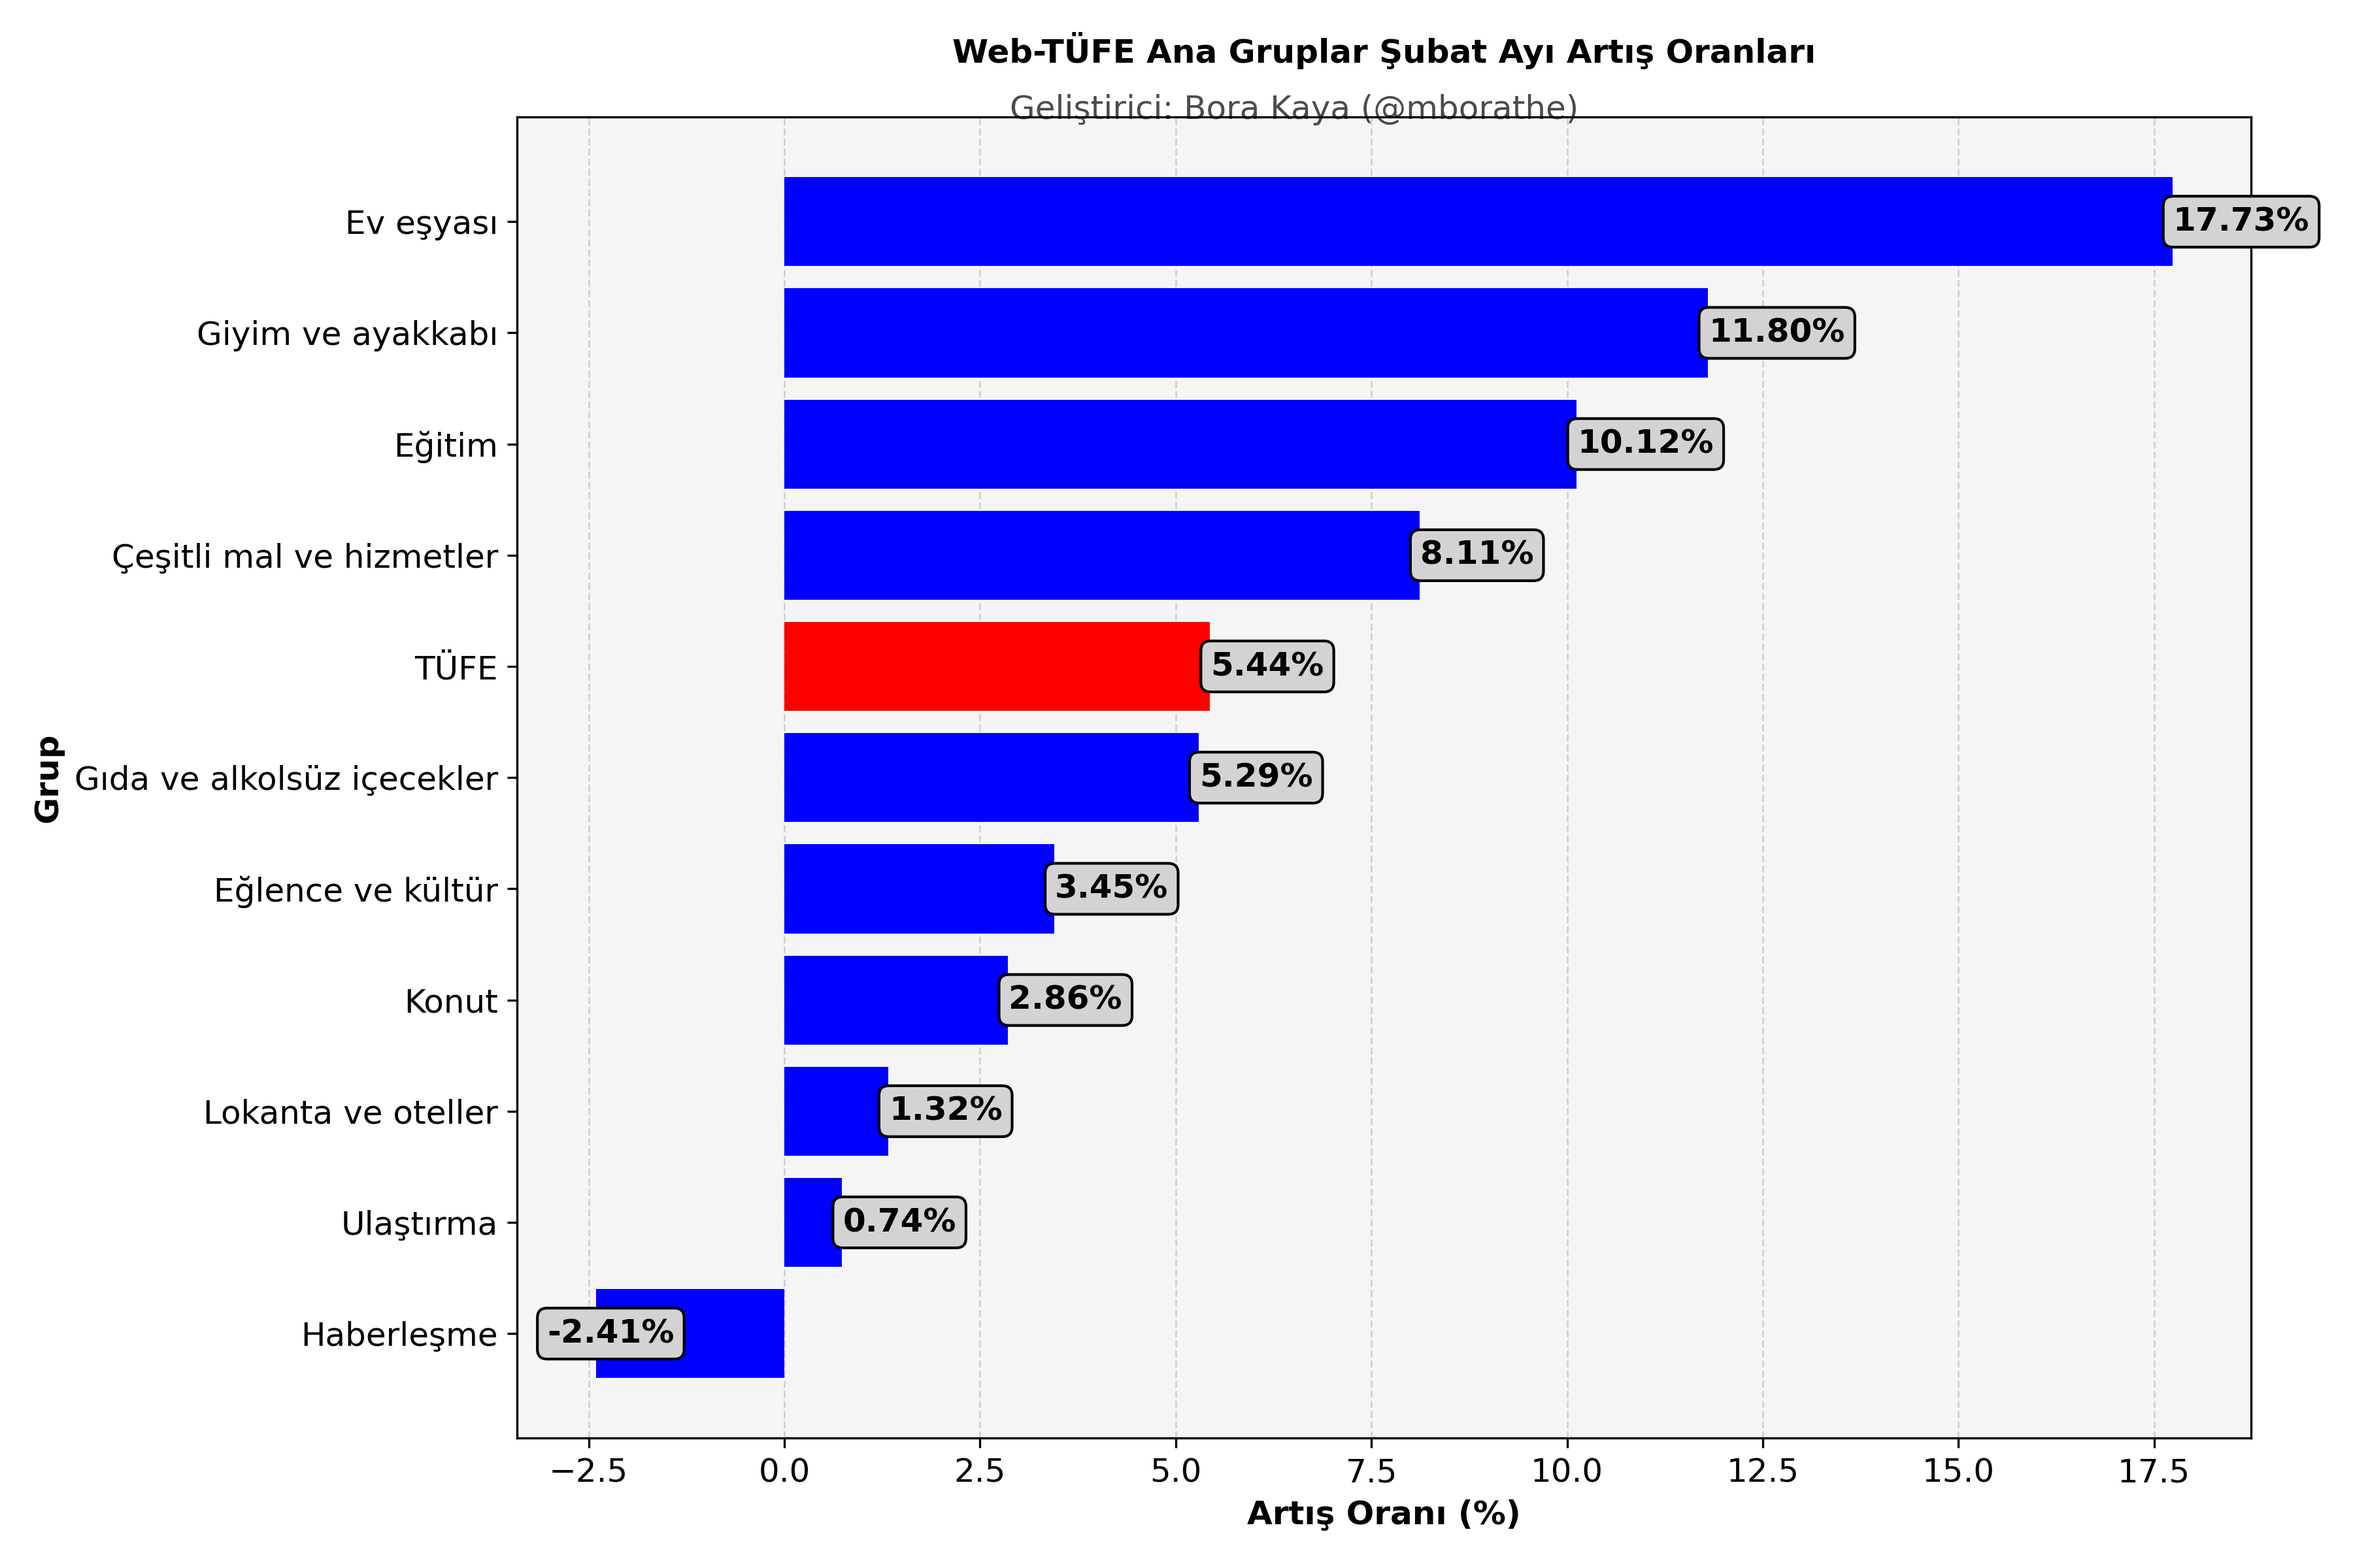
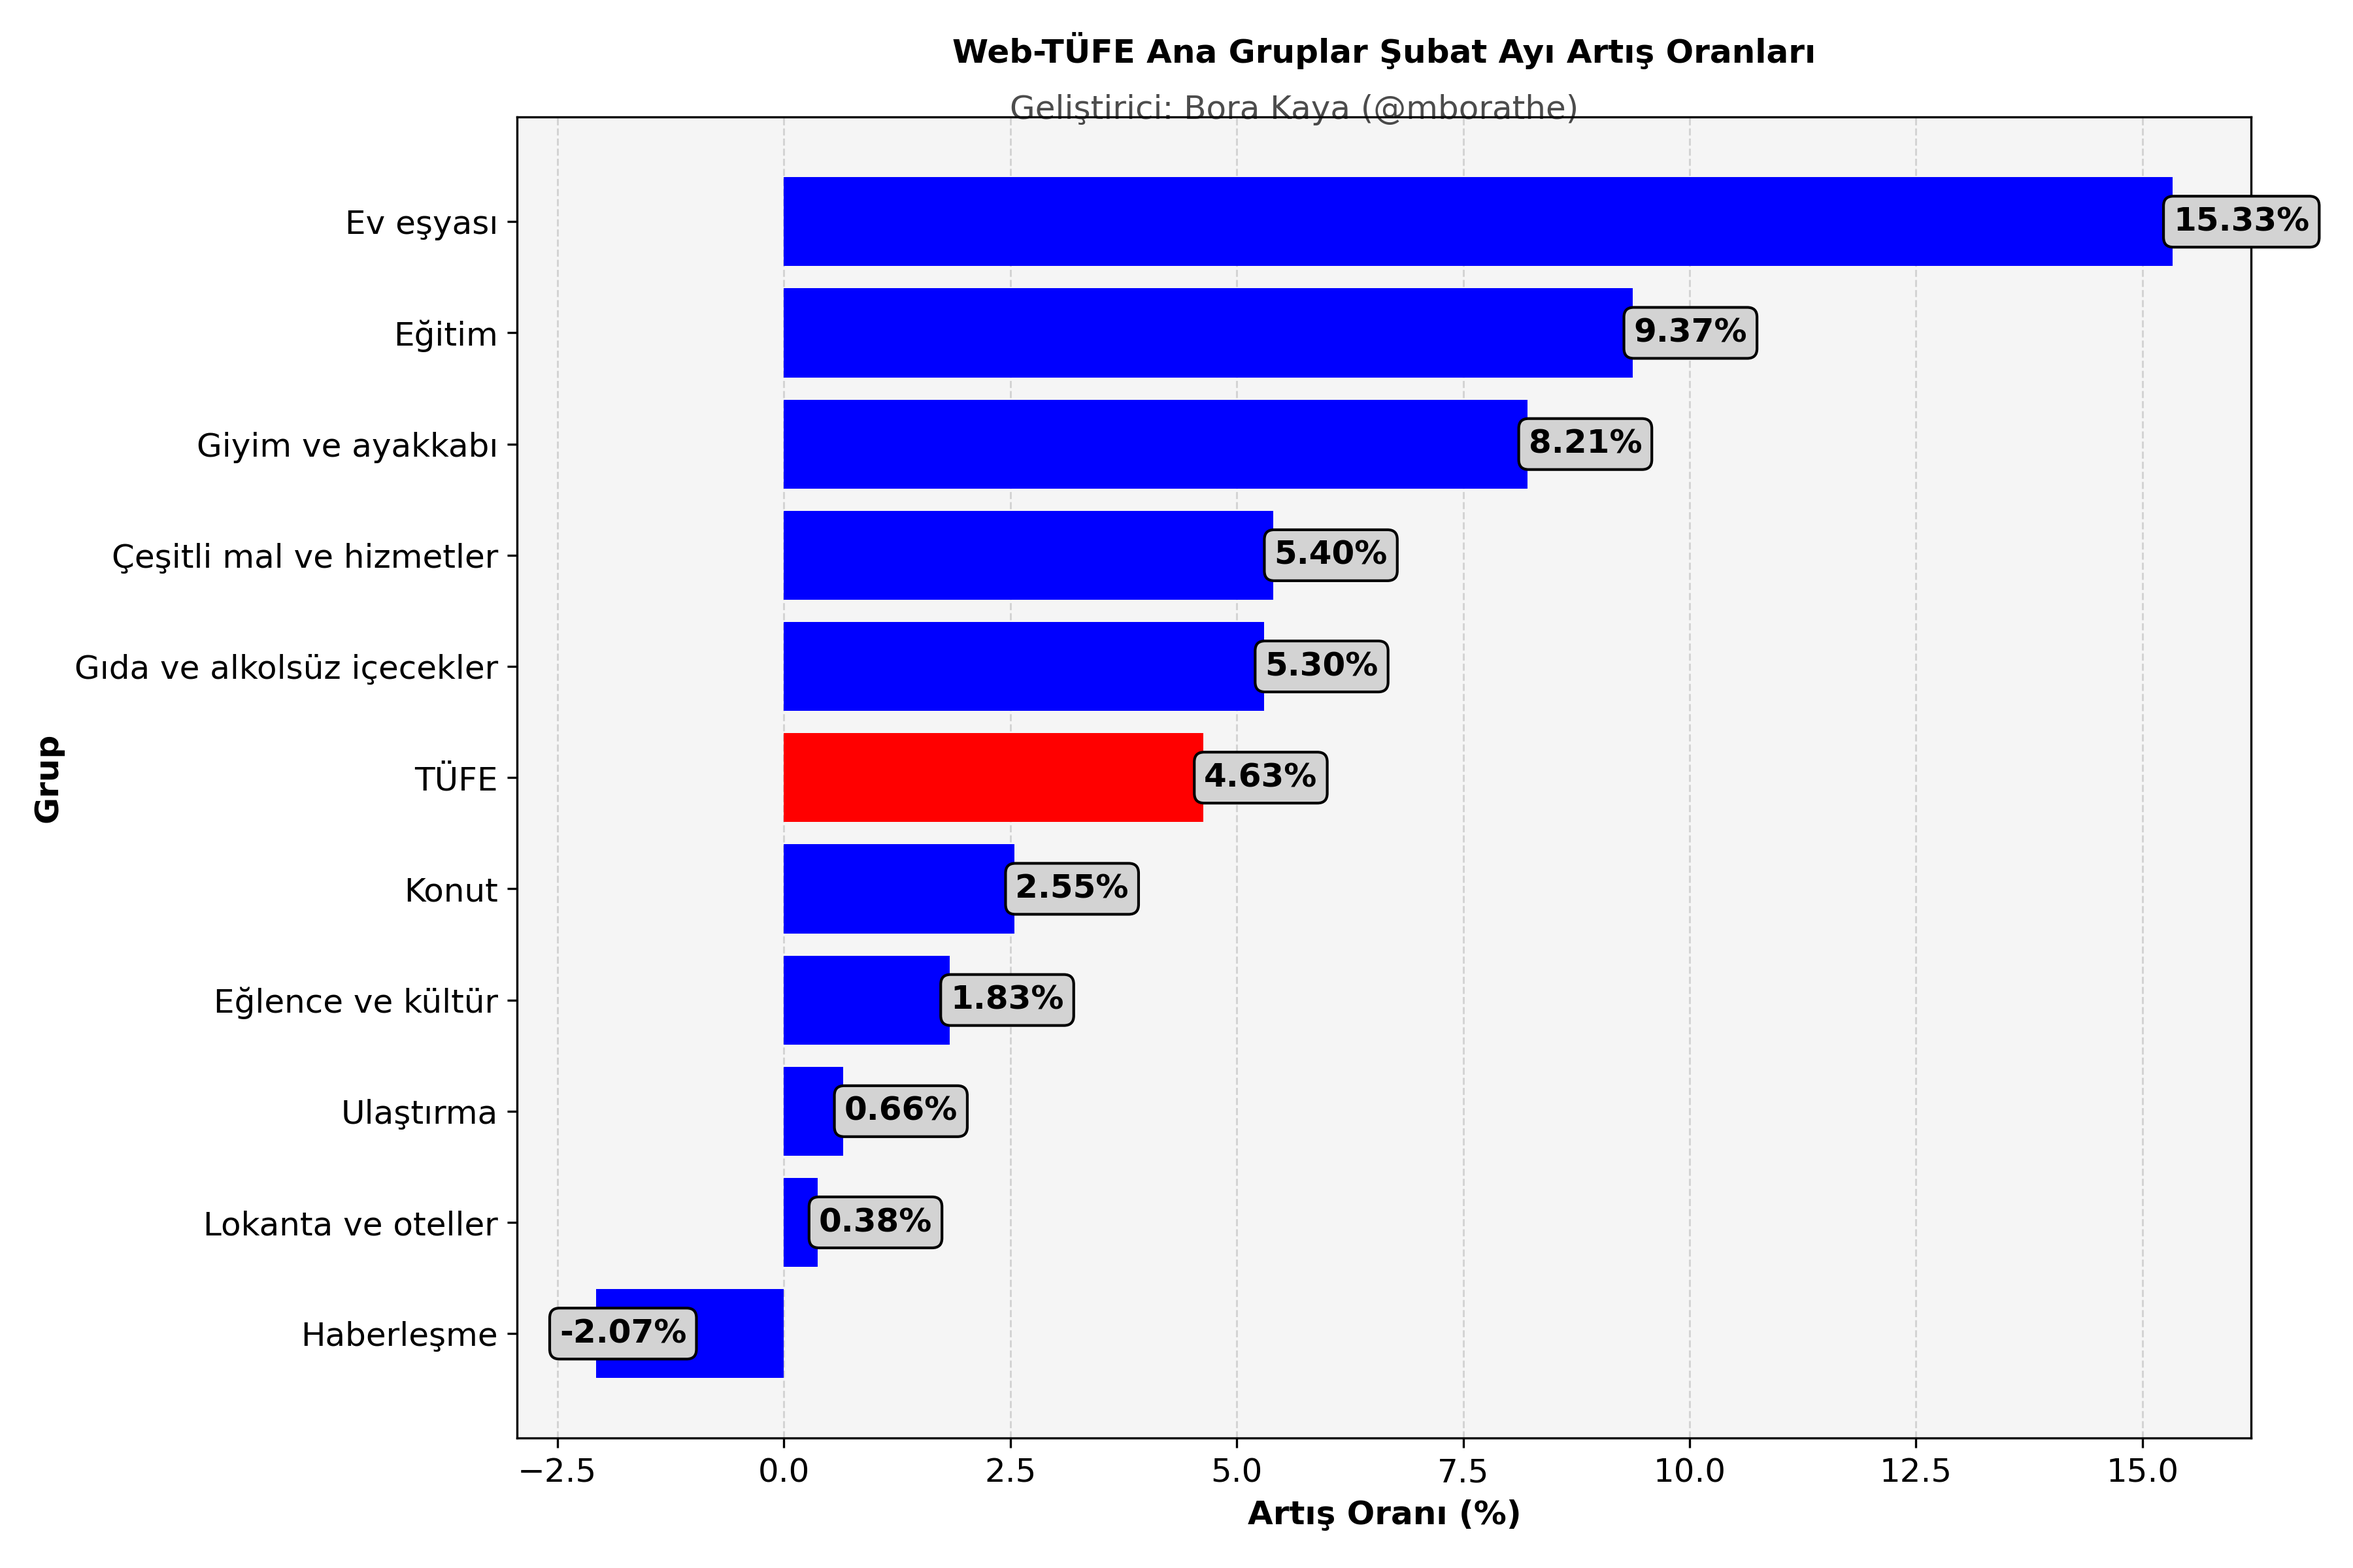
.

diff --git a/stream.py b/stream.py
@@ -1680,13 +1680,12 @@ if page=="Harcama Grupları":
 
     tüfe=pd.read_csv("gruplar_int.csv",index_col=0)
     tüfe.index=pd.to_datetime(tüfe.index)
-    harcama_grupları["TÜFE"]=tüfe["TÜFE"].values
+    tüfe=tüfe.sort_index()
+    harcama_grupları["TÜFE"]=tüfe["TÜFE"]
 
-    harcama_artıs=pd.Series(index=harcama_grupları.columns)
-    for col in harcama_artıs.index:
-        harcama_artıs.loc[col]=((hareketli_aylik_ortalama(harcama_grupları[col])["Aylık Ortalama"].fillna(method="ffill").iloc[-1]/hareketli_aylik_ortalama(harcama_grupları[col])["Aylık Ortalama"].fillna(method="ffill").loc[f"{onceki}-24"])-1)*100
+    
 
-    harcama_artıs=harcama_artıs.sort_values()
+    
 
     harcama_grupları.index=pd.to_datetime(harcama_grupları.index)
     harcama_grupları=harcama_grupları.sort_index()
@@ -1701,40 +1700,42 @@ if page=="Harcama Grupları":
         harcama_grupları_aylık[col].iloc[-1]=hareketliartıs.iloc[-1]
         harcama_grupları_aylık=pd.DataFrame(harcama_grupları_aylık)
     harcama_grupları_aylık["Tarih"]=(harcama_grupları_aylık.index.strftime("%Y-%m"))
-    cols=["Tarih"]
-    cols.extend(harcama_grupları.columns)
-    harcama_grupları_aylık=harcama_grupları_aylık[cols]
-    harcama_grupları_aylık=harcama_grupları_aylık.reset_index(drop=True)
+  
 
-    from datetime import datetime,timedelta
-    tarih=datetime.now().strftime("%Y-%m")
-    onceki=(datetime.now()-timedelta(days=28)).strftime("%Y-%m")
-    cari=hareketli_aylik_ortalama(tüfe.iloc[:,0])["Aylık Ortalama"].fillna(method="ffill").loc[tarih:]
-    hareketliartıs=cari.values/hareketli_aylik_ortalama(tüfe.iloc[:,0])["Aylık Ortalama"].fillna(method="ffill").loc[f"{onceki}-24"]
-    hareketliartıs=pd.Series(hareketliartıs,index=cari.index)
-    hareketliartıs=(hareketliartıs-1)*100
+    
+    import streamlit as st
 
-    cari=hareketli_aylik_ortalama(tüfe.iloc[:,0])["Aylık Ortalama"].fillna(method="ffill")
-    tüfeaylıkdata=cari.resample('M').last().pct_change().loc["2025-02":]*100
-    tüfeaylıkdata.iloc[-1]=hareketliartıs.iloc[-1]
-    tüfeaylıkdata=pd.DataFrame(tüfeaylıkdata)
-    tüfeaylıkdata.columns=["Aylık Artış"]
-    tüfeaylıkdata["Tarih"]=pd.to_datetime(tüfeaylıkdata.index)
-    tüfeaylıkdata["Tarih"]=tüfeaylıkdata["Tarih"].dt.strftime("%Y-%m")
-    tüfeaylıkdata=tüfeaylıkdata.reset_index()
-    tüfeaylıkdata=tüfeaylıkdata[["Tarih","Aylık Artış"]]
+    # Başlığın font büyüklüğünü artırma
+    st.markdown(
+        """
+        <style>
+        label[for="Tarih Seçin:"] {
+            font-size: 20px !important;
+            font-weight: bold;
+        }
+        div[data-baseweb="select"] > div {
+            font-size: 18px !important;
+        }
+        </style>
+        """,
+        unsafe_allow_html=True,
+    )
 
-    harcama_grupları_aylık["TÜFE"]=tüfeaylıkdata["Aylık Artış"].values
+    # Selectbox başlığını ayrı bir markdown ile büyütme
+    st.markdown('<p style="font-size:20px; font-weight:bold;">Tarih Seçin:</p>', unsafe_allow_html=True)
 
-    selected_tarih = st.sidebar.selectbox("Tarih Seçin:", (harcama_grupları_aylık["Tarih"]).values)
-
-    harcama_artıs=harcama_grupları_aylık[harcama_grupları_aylık["Tarih"]==selected_tarih].iloc[0][1:]
+    # Selectbox
+    selected_tarih = st.selectbox("", harcama_grupları_aylık["Tarih"].values[::-1])
 
 
 
+    harcama_artıs=harcama_grupları_aylık[harcama_grupları_aylık["Tarih"]==selected_tarih].iloc[0]
 
 
-    harcama_artıs=harcama_artıs.sort_values()
+
+
+
+    harcama_artıs=harcama_artıs.drop("Tarih",axis=0).sort_values()
 
 
     colors = ['red' if label == 'TÜFE' else 'blue' for label in harcama_artıs.index]
